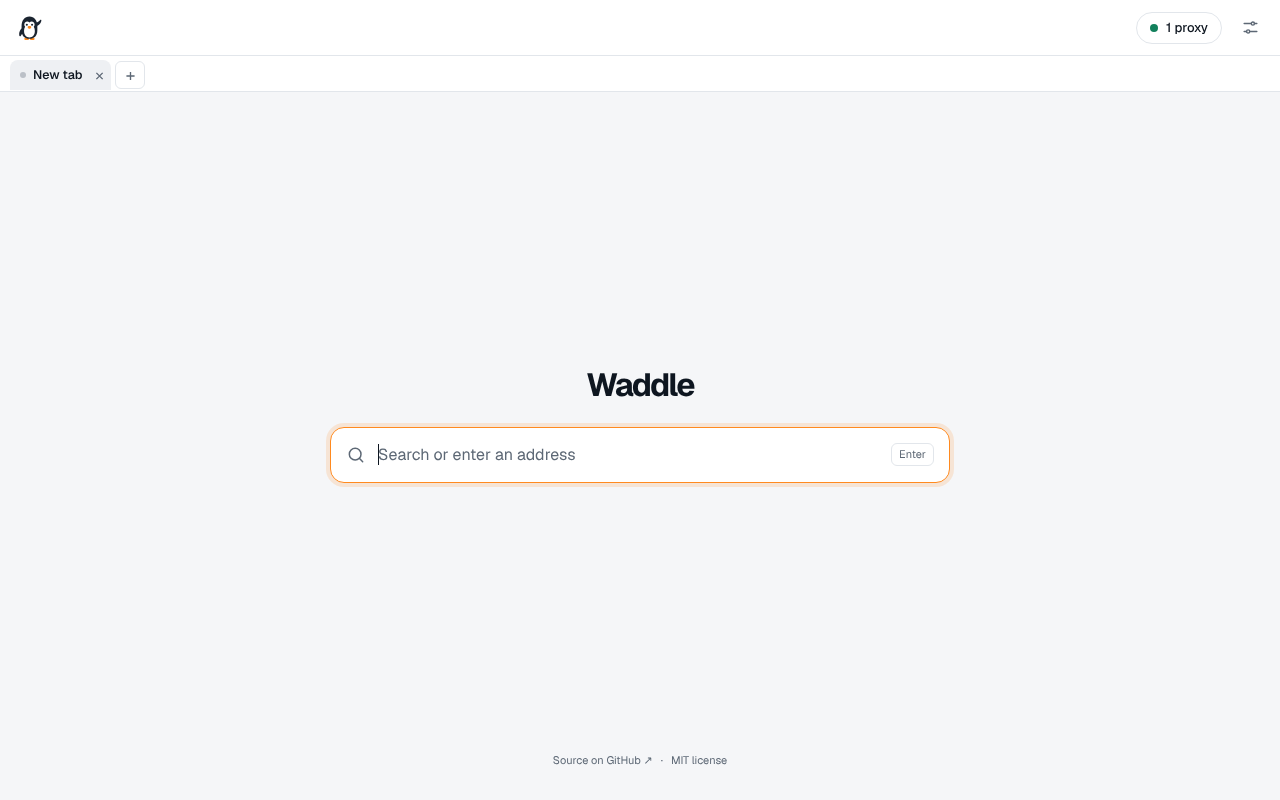
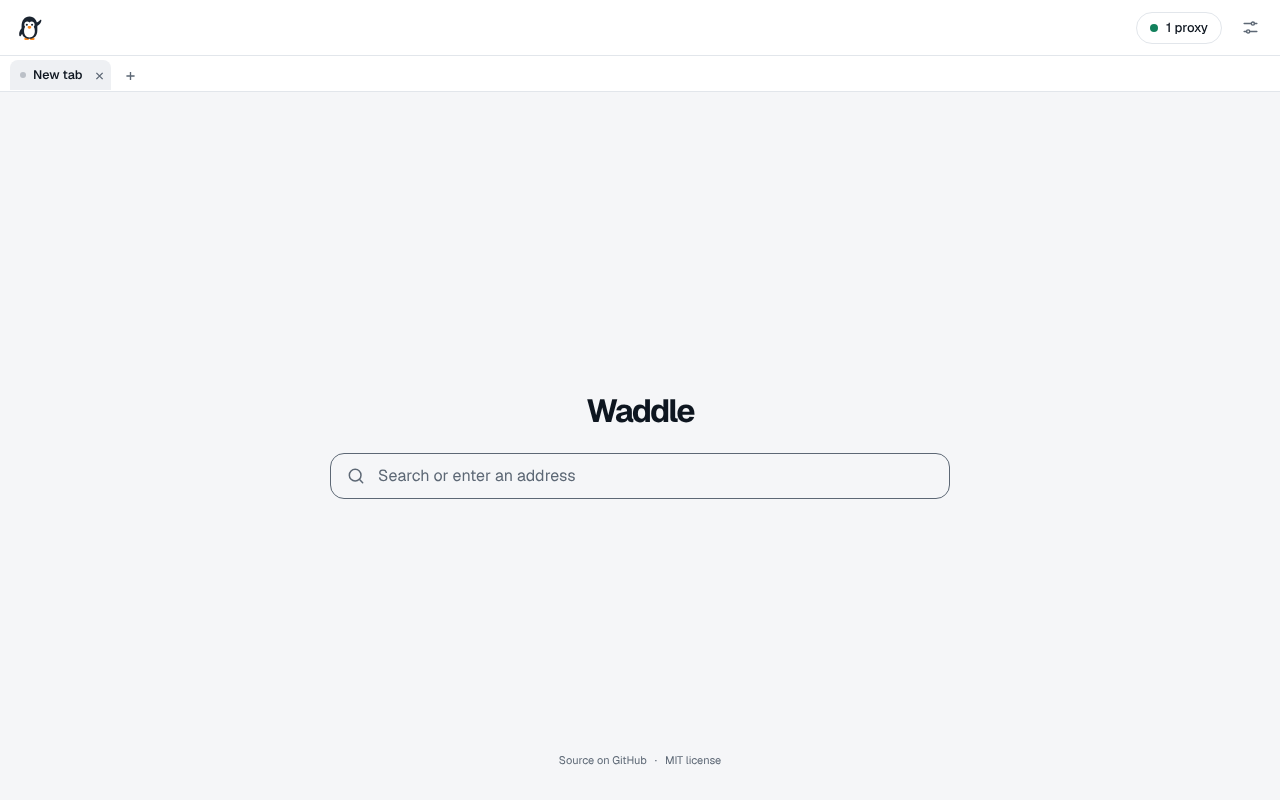
Polish minimal start screen controls

Changed region(s): [[0.25, 0.4688, 0.75, 0.625], [0.4375, 0.9375, 0.5625, 0.9688]]

diff --git a/public/app.css b/public/app.css
@@ -438,7 +438,6 @@ body:not(.browsing) #route span {
   flex-direction: column;
   align-items: center;
   justify-content: center;
-  padding: 0 0 42px;
 }
 .home-main {
   width: 100%;
@@ -463,22 +462,19 @@ body:not(.browsing) #route span {
 #start {
   width: 100%;
   max-width: none;
-  height: 56px;
+  height: 46px;
   display: flex;
   align-items: center;
   gap: 12px;
   padding: 0 15px;
   border: 1px solid var(--line);
   border-radius: 14px;
-  background: var(--card);
-  box-shadow: 0 3px 14px rgb(20 28 40 / 5%);
-  transition:
-    border-color 0.16s ease,
-    box-shadow 0.16s ease;
+  background: transparent;
+  box-shadow: none;
 }
 #start:focus-within {
-  border-color: var(--accent);
-  box-shadow: 0 0 0 4px color-mix(in srgb, var(--accent) 16%, transparent);
+  border-color: var(--muted);
+  box-shadow: none;
 }
 #start > svg {
   width: 20px;
@@ -510,13 +506,6 @@ body:not(.browsing) #route span {
 #addr::placeholder {
   color: var(--muted);
 }
-#start kbd {
-  padding: 3px 7px;
-  border: 1px solid var(--line);
-  border-radius: 6px;
-  color: var(--muted);
-  font: 11px/1.3 var(--sans);
-}
 .home-footer {
   position: absolute;
   right: 0;
@@ -540,9 +529,6 @@ body:not(.browsing) #route span {
   #landing {
     padding: 20px 18px;
   }
-  #homeContent {
-    padding-bottom: 42px;
-  }
   .home-brand {
     margin-bottom: 18px;
   }
@@ -550,10 +536,7 @@ body:not(.browsing) #route span {
     font-size: 29px;
   }
   #start {
-    height: 52px;
-  }
-  #start kbd {
-    display: none;
+    height: 44px;
   }
   #bar {
     padding: 0 8px;
@@ -1092,9 +1075,6 @@ textarea:focus,
 }
 
 @media (max-width: 640px) {
-  #start kbd {
-    display: none;
-  }
   #bar {
     padding: 0 8px;
     gap: 2px;
@@ -1219,16 +1199,19 @@ textarea:focus,
   font-size: 17px;
   line-height: 1;
 }
-.tab-close:hover,
-.new-tab:hover {
+.tab-close:hover {
   background: var(--line);
   color: var(--text);
 }
 .new-tab {
   width: 30px;
   height: 28px;
-  border: 1px solid var(--line);
-  background: var(--card);
+  border: 0;
+  background: transparent;
+}
+.new-tab:hover {
+  background: transparent;
+  color: var(--text);
 }
 #bookmark.saved {
   color: var(--accent);

diff --git a/public/index.html b/public/index.html
@@ -41,14 +41,13 @@
             <form id="start">
               <svg viewBox="0 0 24 24" aria-hidden="true"><circle cx="11" cy="11" r="7"/><path d="m20 20-4-4"/></svg>
               <input id="q" type="text" inputmode="url" autocomplete="off" autocapitalize="off" spellcheck="false" placeholder="Search or enter an address" aria-label="Search or enter an address" autofocus>
-              <kbd>Enter</kbd>
             </form>
             <div id="suggestions" role="listbox" aria-label="Suggestions" hidden></div>
           </div>
         </div>
       </div>
       <footer class="home-footer">
-        <a href="https://github.com/wuzzynizzy/Waddle" target="_blank" rel="noopener noreferrer">Source on GitHub <span aria-hidden="true">↗</span></a>
+        <a href="https://github.com/wuzzynizzy/Waddle" target="_blank" rel="noopener noreferrer">Source on GitHub</a>
         <span aria-hidden="true">·</span>
         <a href="https://github.com/wuzzynizzy/Waddle/blob/main/LICENSE" target="_blank" rel="noopener noreferrer">MIT license</a>
       </footer>

diff --git a/README.md b/README.md
@@ -178,7 +178,7 @@ identity. A service worker catches whatever is left. More in
 
 ```sh
 npm test              # 191 unit and integration tests, no network needed
-npm run test:browser  # 134 browser checks in a real Chrome (see docs/testing.md)
+npm run test:browser  # 137 browser checks in a real Chrome (see docs/testing.md)
 ```
 
 Both suites run the real server against stand-in websites, proxies (HTTP, SOCKS4, SOCKS5), DNS

diff --git a/docs/testing.md b/docs/testing.md
@@ -5,7 +5,7 @@ browser.
 
 ```sh
 npm test              # unit and integration: 191 tests
-npm run test:browser  # end to end in Chrome: 134 checks
+npm run test:browser  # end to end in Chrome: 137 checks
 ```
 
 Neither suite uses the internet. Both replace it with stand-ins on the local machine, so they pass
